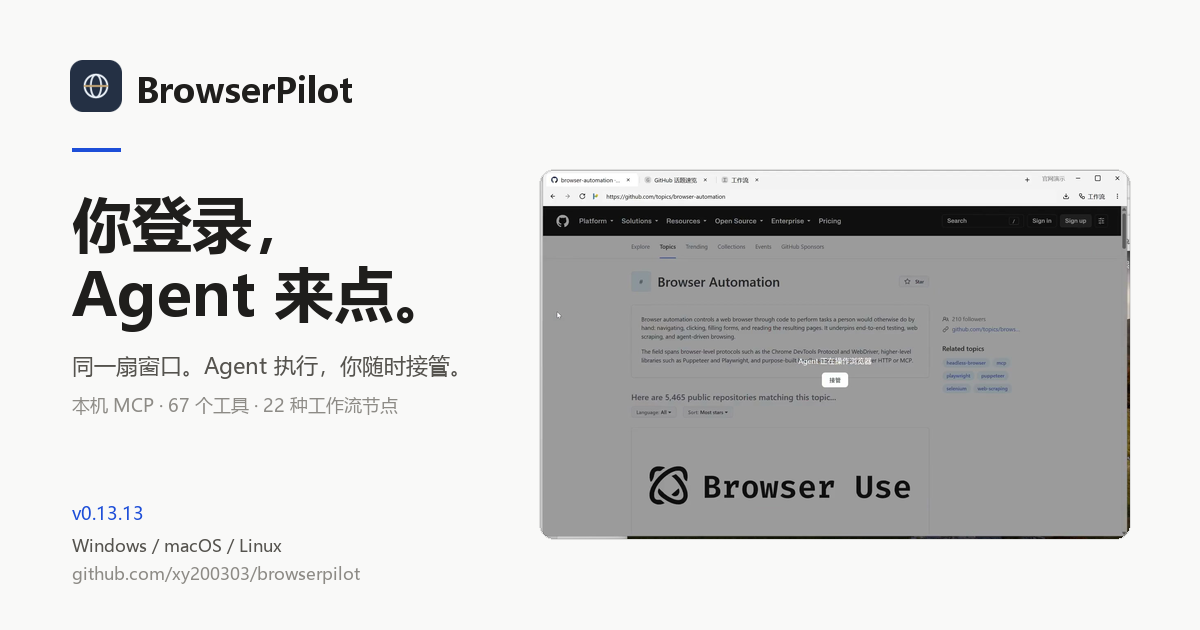
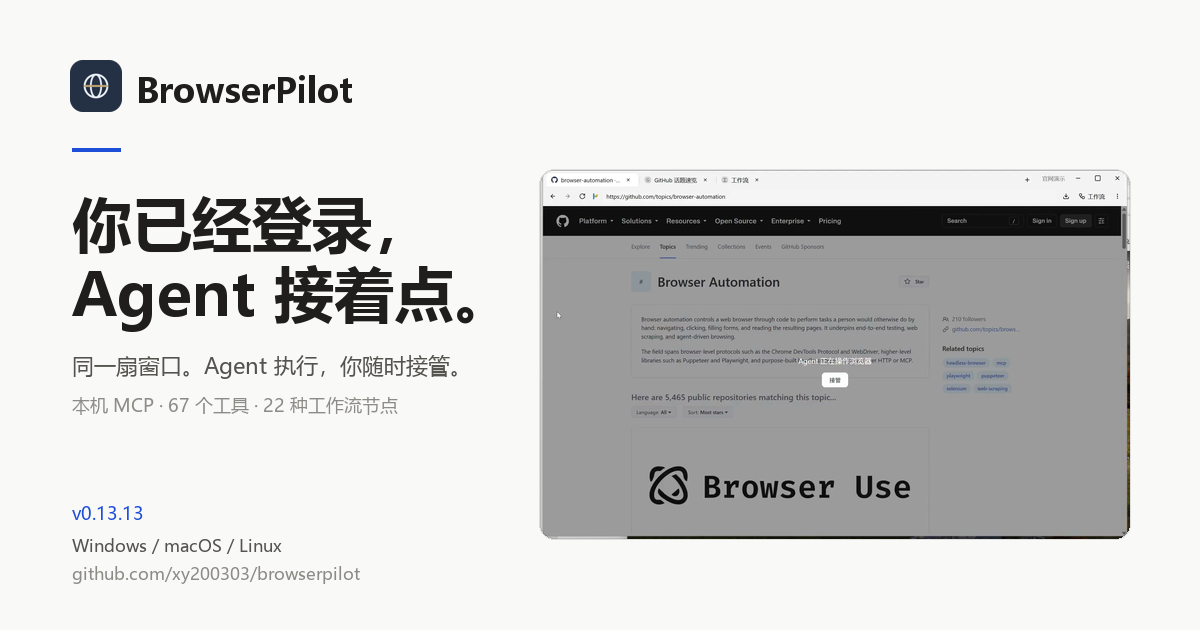
copy: 按 Humanizer-zh 改写首页与文档文案

Changed region(s): [[0.0925, 0.3016, 0.4008, 0.5127]]

diff --git a/website/.vitepress/theme/Home.vue b/website/.vitepress/theme/Home.vue
@@ -13,32 +13,32 @@ const ICONS = {
 const steps = [
   {
     n: '01',
-    title: '把目标交给 Agent 或工作流',
-    desc: '在 Claude Code、Kimi Code、Cursor 里说一句要做什么；Agent 通过本机 MCP 调 BrowserPilot 的工具。做通一次后，也可以存成工作流，填参数直接执行。',
+    title: '先说一句，或者填参数',
+    desc: '在 Claude Code、Kimi Code、Cursor 里说一句。Agent 通过本机 MCP 调工具。做通一次后可以存成工作流，下次填参数直接跑。',
     src: '/shots/tasks.png',
     alt: '在 BrowserPilot 里填写工作流参数'
   },
   {
     n: '02',
-    title: '它在同一扇窗口里执行',
-    desc: '打开页面、定位元素、等待渲染、点击与填写。Agent 操作时盖遮罩，点「接管」立刻交还。',
+    title: 'Agent 在同一个窗口里操作',
+    desc: '打开页面、找元素、等渲染、点击和填写。Agent 操作时盖遮罩，点「接管」就交还。',
     src: '/shots/agent-mask.png',
     alt: '页面上覆盖着「Agent 正在操作浏览器」遮罩与接管按钮'
   },
   {
     n: '03',
-    title: '你看结果，或把它存成工作流',
-    desc: '每次运行留下成功/失败、停在哪一步、输出与文件。做通一次的步骤可以写成工作流，之后一次调用跑完。',
+    title: '看结果，决定要不要存下来',
+    desc: '每次运行留下成功或失败、停在哪一步、输出和文件。做通一次后写成工作流，下次调用一次 workflow_run 就跑完整张图。',
     src: '/shots/run-detail.png',
     alt: '运行记录页面，显示输出、条数与 CSV 路径'
   }
 ]
 
 const heroGroups = [
-  { cls: 'desktop-line', text: '让 Agent 用你登录好的浏览器，', base: 0 },
-  { cls: 'desktop-line', text: '把网页上的事做完。', base: 14 },
-  { cls: 'mobile-line', text: '浏览器里的事，', base: 0 },
-  { cls: 'mobile-line', text: '交给 Agent。', base: 7 }
+  { cls: 'desktop-line', text: '你已经登录的浏览器，', base: 0 },
+  { cls: 'desktop-line', text: 'Agent 接着用。', base: 10 },
+  { cls: 'mobile-line', text: '你已经登录，', base: 0 },
+  { cls: 'mobile-line', text: 'Agent 接着点。', base: 5 }
 ]
 const heroChars = heroGroups.map((line) => ({
   cls: line.cls,
@@ -61,7 +61,7 @@ const modes = [
   {
     id: 'agent',
     name: 'Agent 直连',
-    lead: '在 Claude Code、Kimi Code、Cursor 里说一句，Agent 通过 MCP 逐步调用工具：快照、定位、点击、等待、提取。适合一次性任务和还没形成固定流程的事。',
+    lead: '在 Claude Code、Kimi Code、Cursor 里说一句。Agent 通过 MCP 找元素、点击、等待、取结果。一次性任务、还没定型的流程，用这个更直接。',
     items: [
       { t: '67 个工具', d: '导航、点击、表单、截图、抓包、媒体、验证码都在同一套工具里' },
       { t: '失败留现场', d: '工具失败自动附 errorShot，Agent 下一轮能看着截图改定位' },
@@ -74,7 +74,7 @@ const modes = [
   {
     id: 'workflow',
     name: '保存工作流',
-    lead: '做通一次之后，把步骤写成节点图。之后只调用一次 workflow_run，主进程顺着边跑完，不再把每个节点交回给模型。',
+    lead: '做通一次后，把步骤存成节点图。下次调用 workflow_run，主进程一次跑完，不用再让模型重想每一步。',
     items: [
       { t: '22 种节点', d: '打开、点击、填写、判断、循环、提取、导出、CDP、验证码' },
       { t: '参数化', d: '开始节点声明变量，同一张图换输入就能跑不同账号或关键词' },
@@ -102,7 +102,7 @@ const modes = [
 const caps = [
   {
     title: '导航与定位',
-    lead: '先找到，再动手。找不到就报错，不猜。',
+    lead: '点击前先找到元素。找不到就报错，不猜。',
     items: [
       { t: '打开、后退、前进、刷新', d: '地址规整；非 URL 文本走当前搜索引擎。', tool: 'page_navigate', level: 'yes' },
       { t: 'XPath 或 CSS 选择器', d: '点击、输入、选择必须恰好匹配一个；匹配多个直接失败，不取第一条。', tool: 'page_click', level: 'yes' },
@@ -112,7 +112,7 @@ const caps = [
   },
   {
     title: '表单与上传',
-    lead: '把人的输入动作拆成可重放的步骤。',
+    lead: '输入、选择、上传，都按真实操作走。',
     items: [
       { t: '逐键输入与快捷键', d: '默认走 CDP 可信输入；非拉丁字符用 Input.insertText。', tool: 'page_type / page_key', level: 'yes' },
       { t: '选择、粘贴、上传文件', d: '上传直接交给文件控件，不弹系统选择框。', tool: 'page_select / page_upload', level: 'yes' },
@@ -131,7 +131,7 @@ const caps = [
   },
   {
     title: '等待与重试',
-    lead: '不写死 sleep，让页面自己说什么时候好了。',
+    lead: '不写死 sleep。等元素出现再继续。',
     items: [
       { t: '等元素出现或消失', d: '默认 10 秒，最长 60 秒；穿透模式同样可用。', tool: 'page_wait', level: 'yes' },
       { t: '点到目标出现为止', d: '点击后等下一个目标，最多 3 次；滚动/滑动到目标最多 16/20 次。', tool: 'page_click', level: 'yes' },
@@ -141,7 +141,7 @@ const caps = [
   },
   {
     title: '结果提取',
-    lead: '先把页面读成数据，再谈自动化。',
+    lead: '页面上的文字和链接，可以直接读成数据。',
     items: [
       { t: '无障碍树与批量查询', d: '快照只对这一次有效；按同一定位取全部匹配与位置。', tool: 'page_snapshot / page_query', level: 'yes' },
       { t: '读 DOM 或原始响应', d: 'dom 是当前文档，response 是这次导航的 HTML。', tool: 'page_source', level: 'yes' },
@@ -151,7 +151,7 @@ const caps = [
   },
   {
     title: '下载与媒体',
-    lead: '网页触发的下载也接管。',
+    lead: '网页触发的下载也进管理器。',
     items: [
       { t: '下载管理器', d: '进度、暂停/继续、重试、复制链接；所有网页下载进同一列表。', tool: 'will-download', level: 'yes' },
       { t: '图片、音频、视频', d: '直链直接下；B站/抖音/YouTube 抓 DASH 轨合并 mp4；m3u8 交 ffmpeg。', tool: 'page_save_media', level: 'yes' },
@@ -161,7 +161,7 @@ const caps = [
   },
   {
     title: '网络与调试',
-    lead: '出问题时有现场，不靠猜。',
+    lead: '失败时留下现场，不用靠猜。',
     items: [
       { t: '抓包与 HAR', d: '每个标签单独记录；正文与 Cookie 不离开本机。', tool: 'net_start / net_export', level: 'yes' },
       { t: '请求拦截', d: '按 URL 包含规则返回假数据，做接口测试和故障注入。', tool: 'net_mock', level: 'yes' },
@@ -170,7 +170,7 @@ const caps = [
   },
   {
     title: '验证码',
-    lead: '只把能稳定做的写成熟支持。',
+    lead: '能稳定做的才标已支持。',
     items: [
       { t: '极验 v4 滑块', d: 'cv → ddddocr → onnx 三引擎降级；拟人拖拽，失败换图重试。', tool: 'captcha_solve', level: 'yes' },
       { t: '其它类型交给看图 Agent', d: '截图带回坐标映射，自己算点击位置；成功率取决于模型与题型。', tool: 'captcha_panel', level: 'try' },
@@ -264,7 +264,7 @@ const changelog = [
 const faqs = [
   {
     q: '会不会误点付款按钮？',
-    a: '默认没有逐次点击确认——Agent 调 page_click 就会点。需要人把关的步骤，用 page_handoff 或工作流里的「交接」节点：遮罩去掉、页面留提示，人做完下一步才重新上锁。付款、删除、发布这类页面建议放在交接之后，只让 Agent 做只读操作。'
+    a: '默认没有逐次点击确认。Agent 调 page_click 就会点。需要人把关的步骤，用 page_handoff 或工作流里的「交接」节点：遮罩去掉、页面留提示，人做完下一步才重新上锁。付款、删除、发布这类页面，最好放在交接之后，或者只让 Agent 读，不点。'
   },
   {
     q: '登录态怎么保持？换机器怎么办？',
@@ -351,8 +351,8 @@ onUnmounted(() => {
             </span>
           </h1>
           <p class="hero-sub">
-            一套环境一套登录。Agent 在同一扇窗口里点击、填表、等待、提取结果；你随时可以接管。
-            Windows / macOS / Linux，全部在本机。
+            一套环境一套登录。Agent 在同一扇窗口里点击、填表、等待、提取结果；你随时能接管。
+            Windows / macOS / Linux，都在本机。
           </p>
           <div class="hero-cta">
             <a v-press class="btn primary big" :href="withBase('/download.html')">
@@ -407,7 +407,7 @@ onUnmounted(() => {
         <div class="demo-caption">
           <p>
             <strong>一个真实任务：</strong>在 GitHub 的 browser-automation 话题页取前 5 个仓库，导出 CSV。
-            画面从工作流画布开始，经过填写参数、「Agent 正在操作浏览器」的遮罩与页面加载，到运行记录里的条数与文件路径。
+            录屏从工作流画布开始，中间是填写参数、遮罩、页面加载，最后停在运行记录。
           </p>
           <span class="demo-time">35 秒 · 无声循环 · 实录</span>
         </div>
@@ -442,10 +442,9 @@ onUnmounted(() => {
     <section class="section">
       <div class="inner">
         <span class="eyebrow reveal"><i>01</i>怎么工作</span>
-        <h2 class="display reveal">给目标，执行，<span>看结果或接管</span></h2>
+        <h2 class="display reveal">先给任务，<span>再看结果</span></h2>
         <p class="lead reveal">
-          它不是录屏回放，也不是把每一步都交回给模型重新想。做通一次之后，步骤可以存成工作流，
-          下一次只调用一次 workflow_run。
+          做通一次后，步骤可以存成工作流。下次调用一次 workflow_run 就行。
         </p>
         <div ref="railEl" class="pipe-rail" aria-hidden="true">
           <span class="rail-line" />
@@ -469,7 +468,7 @@ onUnmounted(() => {
     <section class="section alt">
       <div class="inner">
         <span class="eyebrow reveal"><i>02</i>能力清单</span>
-        <h2 class="display reveal">能做什么，<span>逐条标证据</span></h2>
+        <h2 class="display reveal">能做什么，<span>哪些还不支持</span></h2>
         <p class="lead reveal">
           每条都对应一个 MCP 工具或一个已实现的界面行为。已支持 = 当前版本可用；实验性 = 有实现但依赖外部条件；
           未支持 = 不承诺，建议交接给人。
@@ -495,7 +494,7 @@ onUnmounted(() => {
     <section class="section tabs-section">
       <div class="inner">
         <span class="eyebrow reveal"><i>·</i>三种用法</span>
-        <h2 class="display reveal">同一套工具，<span>三种用法</span></h2>
+        <h2 class="display reveal">什么时候<span>用哪种</span></h2>
         <p class="lead reveal">
           Agent 直连适合一次性任务；保存工作流适合重复操作；人机协作适合登录、核验和需要人把关的步骤。
         </p>
@@ -538,7 +537,7 @@ onUnmounted(() => {
         <span class="eyebrow reveal"><i>03</i>人在环上</span>
         <h2 class="display reveal">它会停下来，<span>你也能随时打断</span></h2>
         <p class="lead reveal">
-          终端和浏览器自动化最容易让人不放心的是控制权。下面写的是代码里的实际行为，不是承诺。
+          控制权是这类工具最容易被问的地方。下面按代码里的实际行为写。
         </p>
         <div class="loop">
           <div class="reveal">
@@ -565,8 +564,8 @@ onUnmounted(() => {
               </tbody>
             </table>
             <div class="loop-warning">
-              逐次工具调用不会写单独的审计日志。要给业务方交代，用工作流的运行记录（成功/失败、节点、输出、文件、现场截图）
-              和抓包 HAR；这两样是按运行留的，不是按每一次点击留的。
+              逐次工具调用不会写单独的审计日志。如果要把过程给别人看，用工作流的运行记录（成功/失败、节点、输出、文件、现场截图）
+              和抓包 HAR；它们按运行记录，不按每次点击记录。
             </div>
           </div>
           <div class="loop-points">
@@ -608,7 +607,7 @@ onUnmounted(() => {
         <span class="eyebrow reveal"><i>04</i>边界</span>
         <h2 class="display reveal">我们做什么，<span>不做什么</span></h2>
         <p class="lead reveal">
-          主动写清楚不做的部分，比说「什么都能做」更有用。下面每一条都能在代码或发布配置里找到对应。
+          下面这些不做。每条都能在代码或发布配置里找到依据。
         </p>
         <div class="bounds">
           <div class="bound reveal" v-lift="2" v-spot>
@@ -630,7 +629,7 @@ onUnmounted(() => {
               <li><strong>不做内置定时器。</strong>要用定时，自己写系统计划任务调 CLI。</li>
               <li><strong>不做网卡级抓包。</strong>只有标签级 HTTP 记录。</li>
               <li><strong>不代管密码。</strong>登录由人在环境窗口里完成。</li>
-              <li><strong>不做代码签名。</strong>安装包未签名，SmartScreen 与 macOS 拦截按文档处理。</li>
+              <li><strong>安装包没有签名。</strong>SmartScreen 与 macOS 拦截按文档处理。</li>
             </ul>
           </div>
         </div>
@@ -642,8 +641,8 @@ onUnmounted(() => {
         <span class="eyebrow reveal"><i>05</i>集成</span>
         <h2 class="display reveal">Agent 走 MCP，<span>人走界面</span></h2>
         <p class="lead reveal">
-          MCP 是主入口：Agent 通过它调用 67 个工具。CLI 是同一套工具的薄封装，适合脚本与计划任务。
-          应用内没有定时器。
+          MCP 是主入口，Agent 通过它调用 67 个工具。CLI 包着同一套工具，适合脚本和计划任务。
+          应用本身没有定时器。
         </p>
         <div class="integration-grid">
           <article class="codecard reveal" v-spot>
@@ -706,7 +705,7 @@ onUnmounted(() => {
         <span class="eyebrow reveal"><i>06</i>对照</span>
         <h2 class="display reveal">手写脚本、RPA、<span>BrowserPilot</span></h2>
         <p class="lead reveal">
-          三者解决的不是同一类问题。下面只写客观差异，不排名。
+          三种做法解决的问题不完全一样。下面写差异。
         </p>
         <p class="table-hint">窄屏可以左右滑动，查看完整对照。</p>
         <div class="table-wrap reveal">
@@ -732,7 +731,7 @@ onUnmounted(() => {
         <span class="eyebrow reveal"><i>07</i>技术规格</span>
         <h2 class="display reveal">给要评估接入的人</h2>
         <p class="lead reveal">
-          版本、驱动、定位方式、并发、凭据与数据落盘位置。数字来自仓库与当前安装包，不写估测。
+          版本、驱动、定位方式、并发、凭据和数据落盘位置。数字来自仓库和当前安装包。
         </p>
         <div class="table-wrap reveal">
           <table class="specs">
@@ -750,9 +749,9 @@ onUnmounted(() => {
     <section class="section alt">
       <div class="inner">
         <span class="eyebrow reveal"><i>08</i>界面</span>
-        <h2 class="display reveal">真实界面，<span>不是重绘</span></h2>
+        <h2 class="display reveal">五张界面截图</h2>
         <p class="lead reveal">
-          下面五张都来自 0.13.13 的 Windows 运行，统一窗口 1440 × 900。没有 mockup。
+          下面五张都是 0.13.13 在 Windows 上的窗口截图，尺寸 1440 × 900。
         </p>
         <div class="shots">
           <figure v-for="(s, i) in shots" :key="s.title" class="shot reveal" v-spot :style="{ transitionDelay: (i % 3) * 60 + 'ms' }">
@@ -772,9 +771,9 @@ onUnmounted(() => {
     <section class="section">
       <div class="inner">
         <span class="eyebrow reveal"><i>09</i>源码与构建</span>
-        <h2 class="display reveal">自己构建，<span>自己核对</span></h2>
+        <h2 class="display reveal">构建与许可证</h2>
         <p class="lead reveal">
-          主进程、界面、Go CLI 与工作流市场都在公开仓库里。三条命令起本地开发环境。
+          主进程、界面、Go CLI 和工作流市场都在公开仓库里。本地开发环境用三条命令。
         </p>
         <div class="dev-grid">
           <div class="dev-card reveal" v-spot>
@@ -809,7 +808,7 @@ $ npm run dev</code></pre>
         <span class="eyebrow reveal"><i>10</i>更新日志</span>
         <h2 class="display reveal">最近三个版本</h2>
         <p class="lead reveal">
-          只写仓库查得到的提交。这个项目的小版本很密，下面三条都是 2026-10-09 的。
+          只写仓库查得到的提交。这个项目在 2026-10-09 一天发了三个小版本。
         </p>
         <div class="releases">
           <article v-for="r in changelog" :key="r.v" class="rel reveal" v-lift="2" v-spot>

diff --git a/website/.vitepress/config.ts b/website/.vitepress/config.ts
@@ -6,7 +6,7 @@ const BASE = '/'
 const SITE_URL = `${SITE_ORIGIN}${BASE}`
 const SITE_NAME = 'BrowserPilot'
 const SITE_DESC =
-  'BrowserPilot 是给 Agent 用的本机浏览器：一套环境一套登录，Agent 在同一扇窗口里点击、填表、等待、提取结果；人随时可以接管。Windows / macOS / Linux，本机 MCP 与工作流。'
+  'BrowserPilot 是给 Agent 用的本机浏览器：一套环境一套登录，Agent 在同一扇窗口里点击、填表、等待、提取结果；人随时能接管。Windows / macOS / Linux，本机 MCP 与工作流。'
 const OG_IMAGE = `${SITE_URL}og-image.png`
 
 const softwareJsonLd = {
@@ -62,7 +62,7 @@ export default defineConfig({
     ['meta', { property: 'og:type', content: 'website' }],
     ['meta', { property: 'og:site_name', content: SITE_NAME }],
     ['meta', { property: 'og:locale', content: 'zh_CN' }],
-    ['meta', { property: 'og:title', content: 'BrowserPilot — 让 Agent 用你登录好的浏览器' }],
+    ['meta', { property: 'og:title', content: 'BrowserPilot — 你已经登录的浏览器，Agent 接着用' }],
     ['meta', { property: 'og:description', content: SITE_DESC }],
     ['meta', { property: 'og:url', content: SITE_URL }],
     ['meta', { property: 'og:image', content: OG_IMAGE }],
@@ -70,7 +70,7 @@ export default defineConfig({
     ['meta', { property: 'og:image:height', content: '630' }],
     ['meta', { property: 'og:image:alt', content: 'BrowserPilot — 给 Agent 用的本机浏览器' }],
     ['meta', { name: 'twitter:card', content: 'summary_large_image' }],
-    ['meta', { name: 'twitter:title', content: 'BrowserPilot — 让 Agent 用你登录好的浏览器' }],
+    ['meta', { name: 'twitter:title', content: 'BrowserPilot — 你已经登录的浏览器，Agent 接着用' }],
     ['meta', { name: 'twitter:description', content: SITE_DESC }],
     ['meta', { name: 'twitter:image', content: OG_IMAGE }],
     ['script', { type: 'application/ld+json' }, JSON.stringify(softwareJsonLd)],

diff --git a/website/index.md b/website/index.md
@@ -1,7 +1,7 @@
 ---
 layout: page
 title: 给 Agent 用的本机浏览器
-description: BrowserPilot 让 Agent 用你登录好的浏览器：一套环境一套登录，同一扇窗口里点击、填表、等待、提取结果，人随时可以接管。Windows / macOS / Linux，本机 MCP 与工作流。
+description: BrowserPilot 是给 Agent 用的本机浏览器：你已经登录的窗口，Agent 接着用；一套环境一套登录，同一扇窗口里点击、填表、等待、提取结果，人随时能接管。Windows / macOS / Linux，本机 MCP 与工作流。
 ---
 
 <Home />

diff --git a/website/guide/quickstart.md b/website/guide/quickstart.md
@@ -5,7 +5,7 @@ description: 从安装到跑通第一个任务：打开 BrowserPilot、确认 MC
 
 # 快速上手
 
-目标：**装好 → 接上 Agent → 在已登录的窗口里跑通一次网页操作**。全程在本机完成。
+先把应用装好，把 MCP 接给 Agent，然后在已经登录的窗口里跑一次网页操作。全程在本机。
 
 ## 第一步：安装并打开
 

diff --git a/website/guide/troubleshooting.md b/website/guide/troubleshooting.md
@@ -5,7 +5,7 @@ description: BrowserPilot 常见失败怎么定位：选择器匹配多个、等
 
 # 常见失败与数据位置
 
-先看运行记录，再看现场截图，最后才看日志文件。大多数问题在这三步里就能定位。
+先看运行记录，再看现场截图；大多数问题到这一步就能定位。日志文件放在最后看。
 
 ## 选择器问题
 
